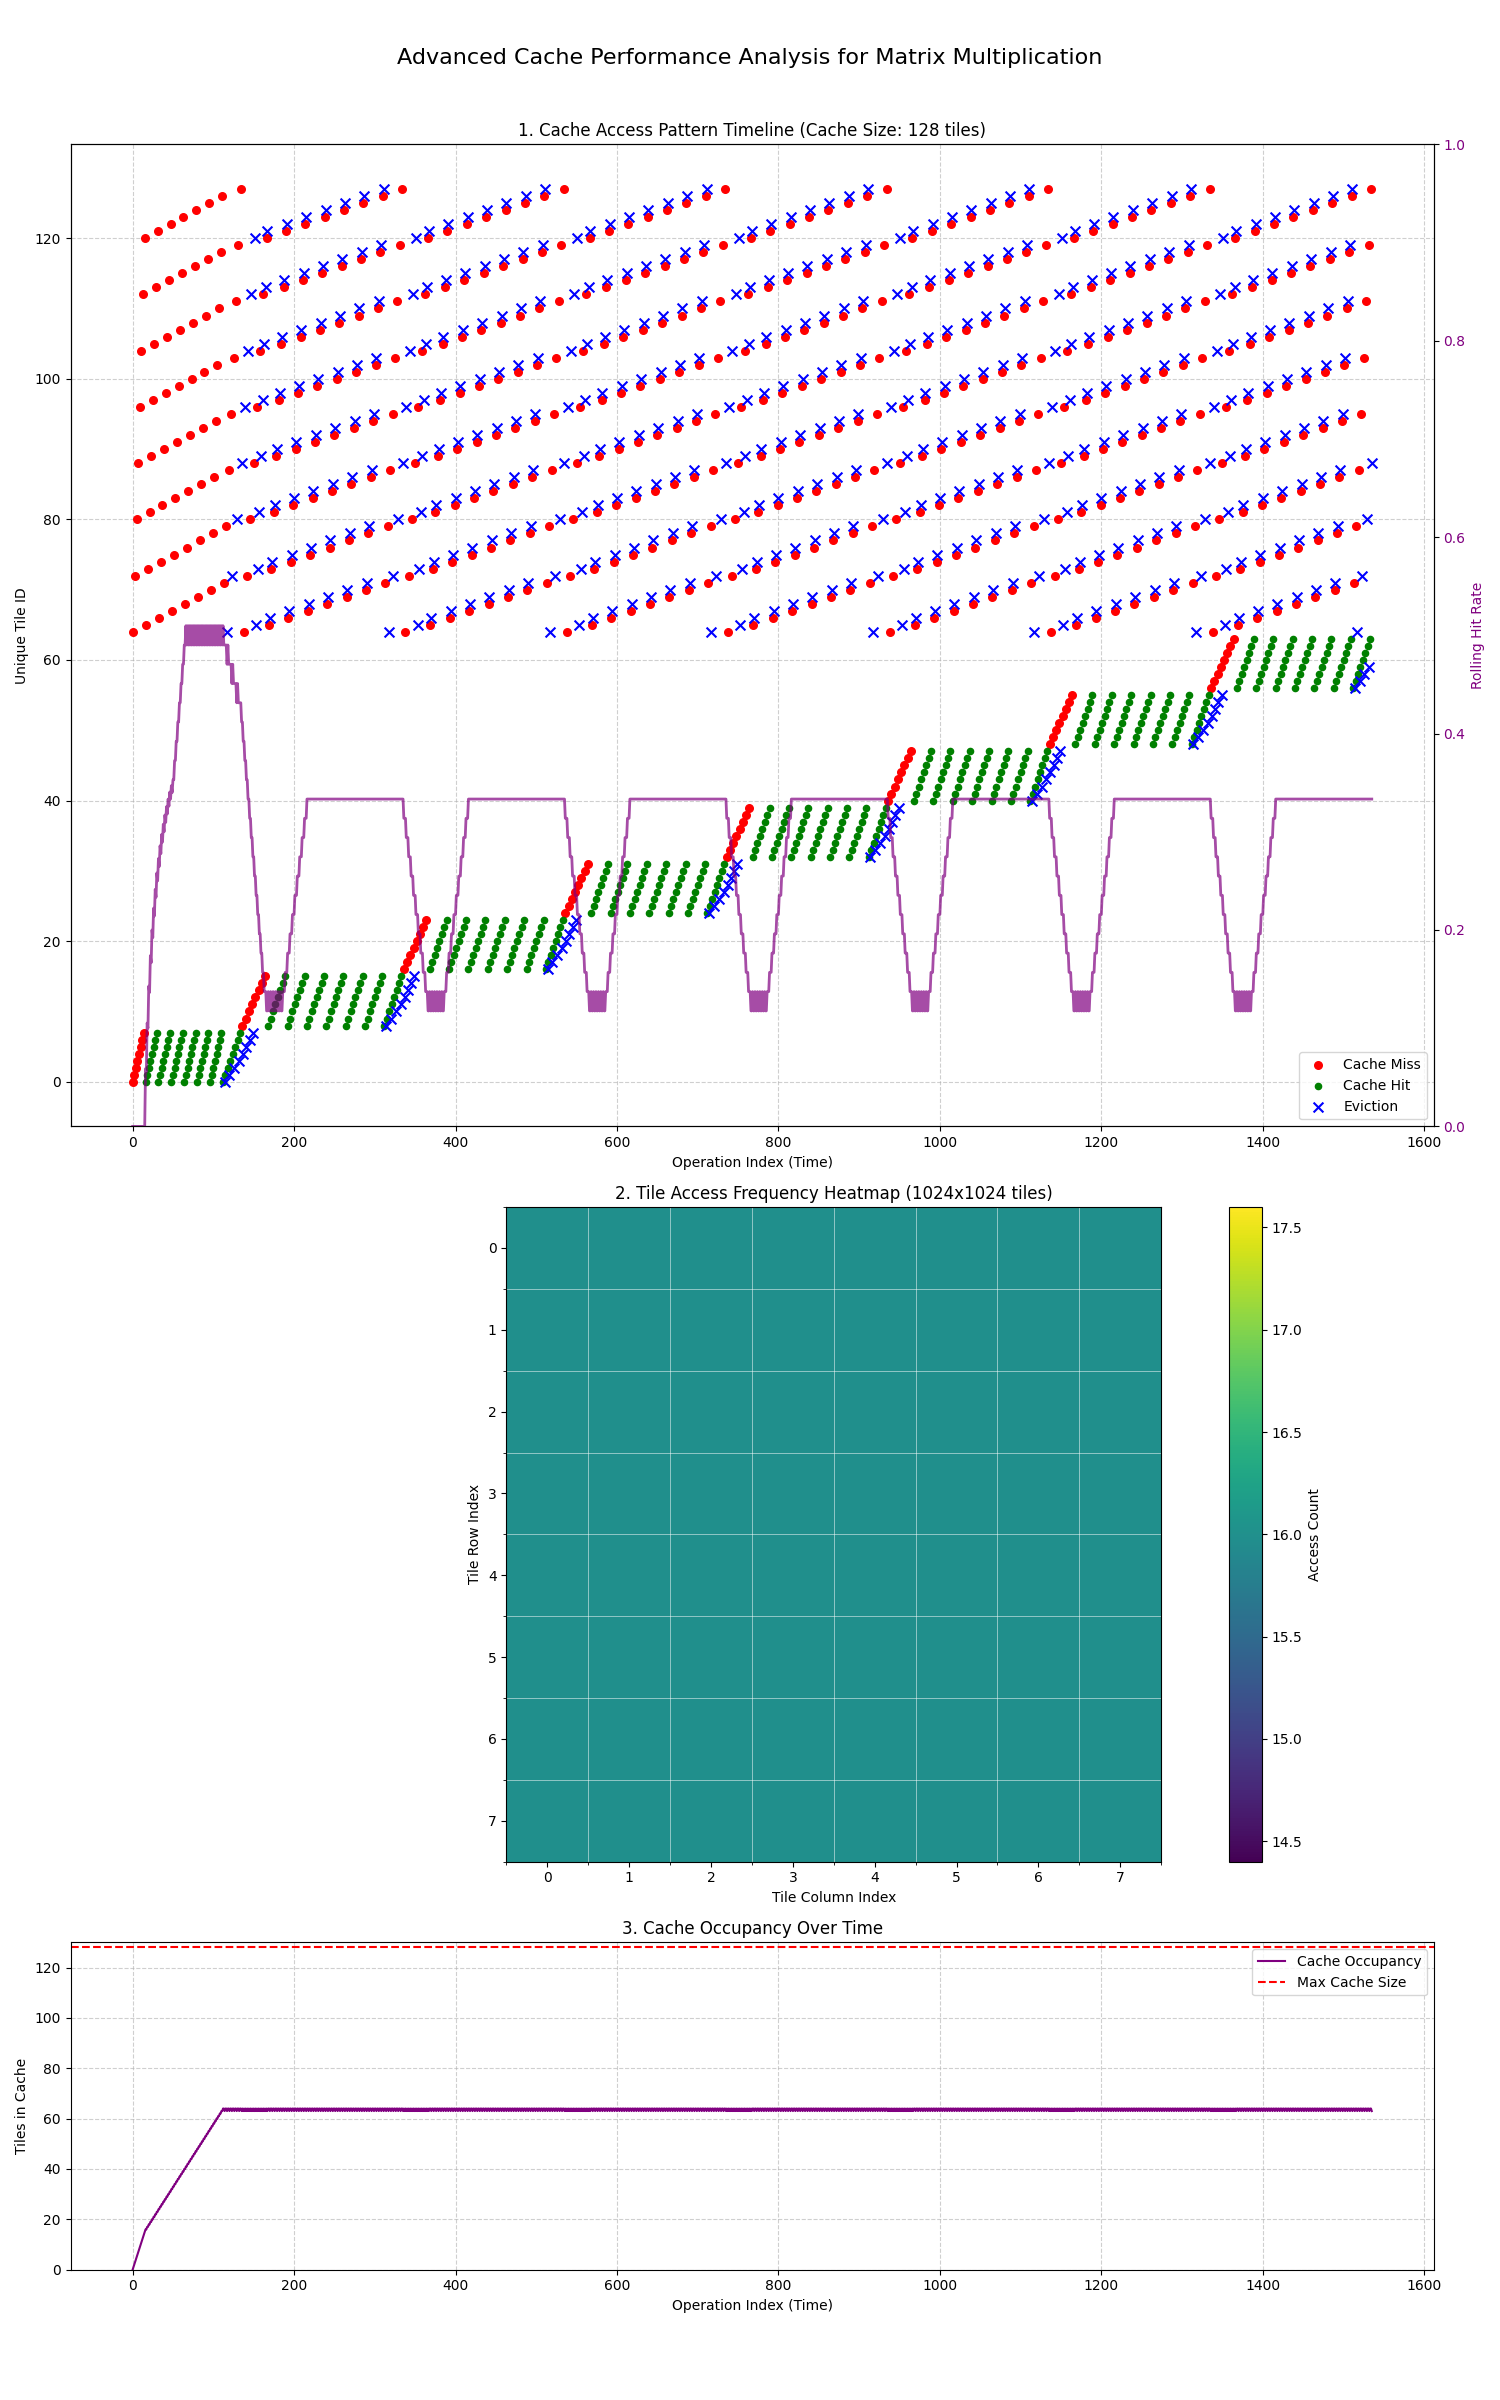
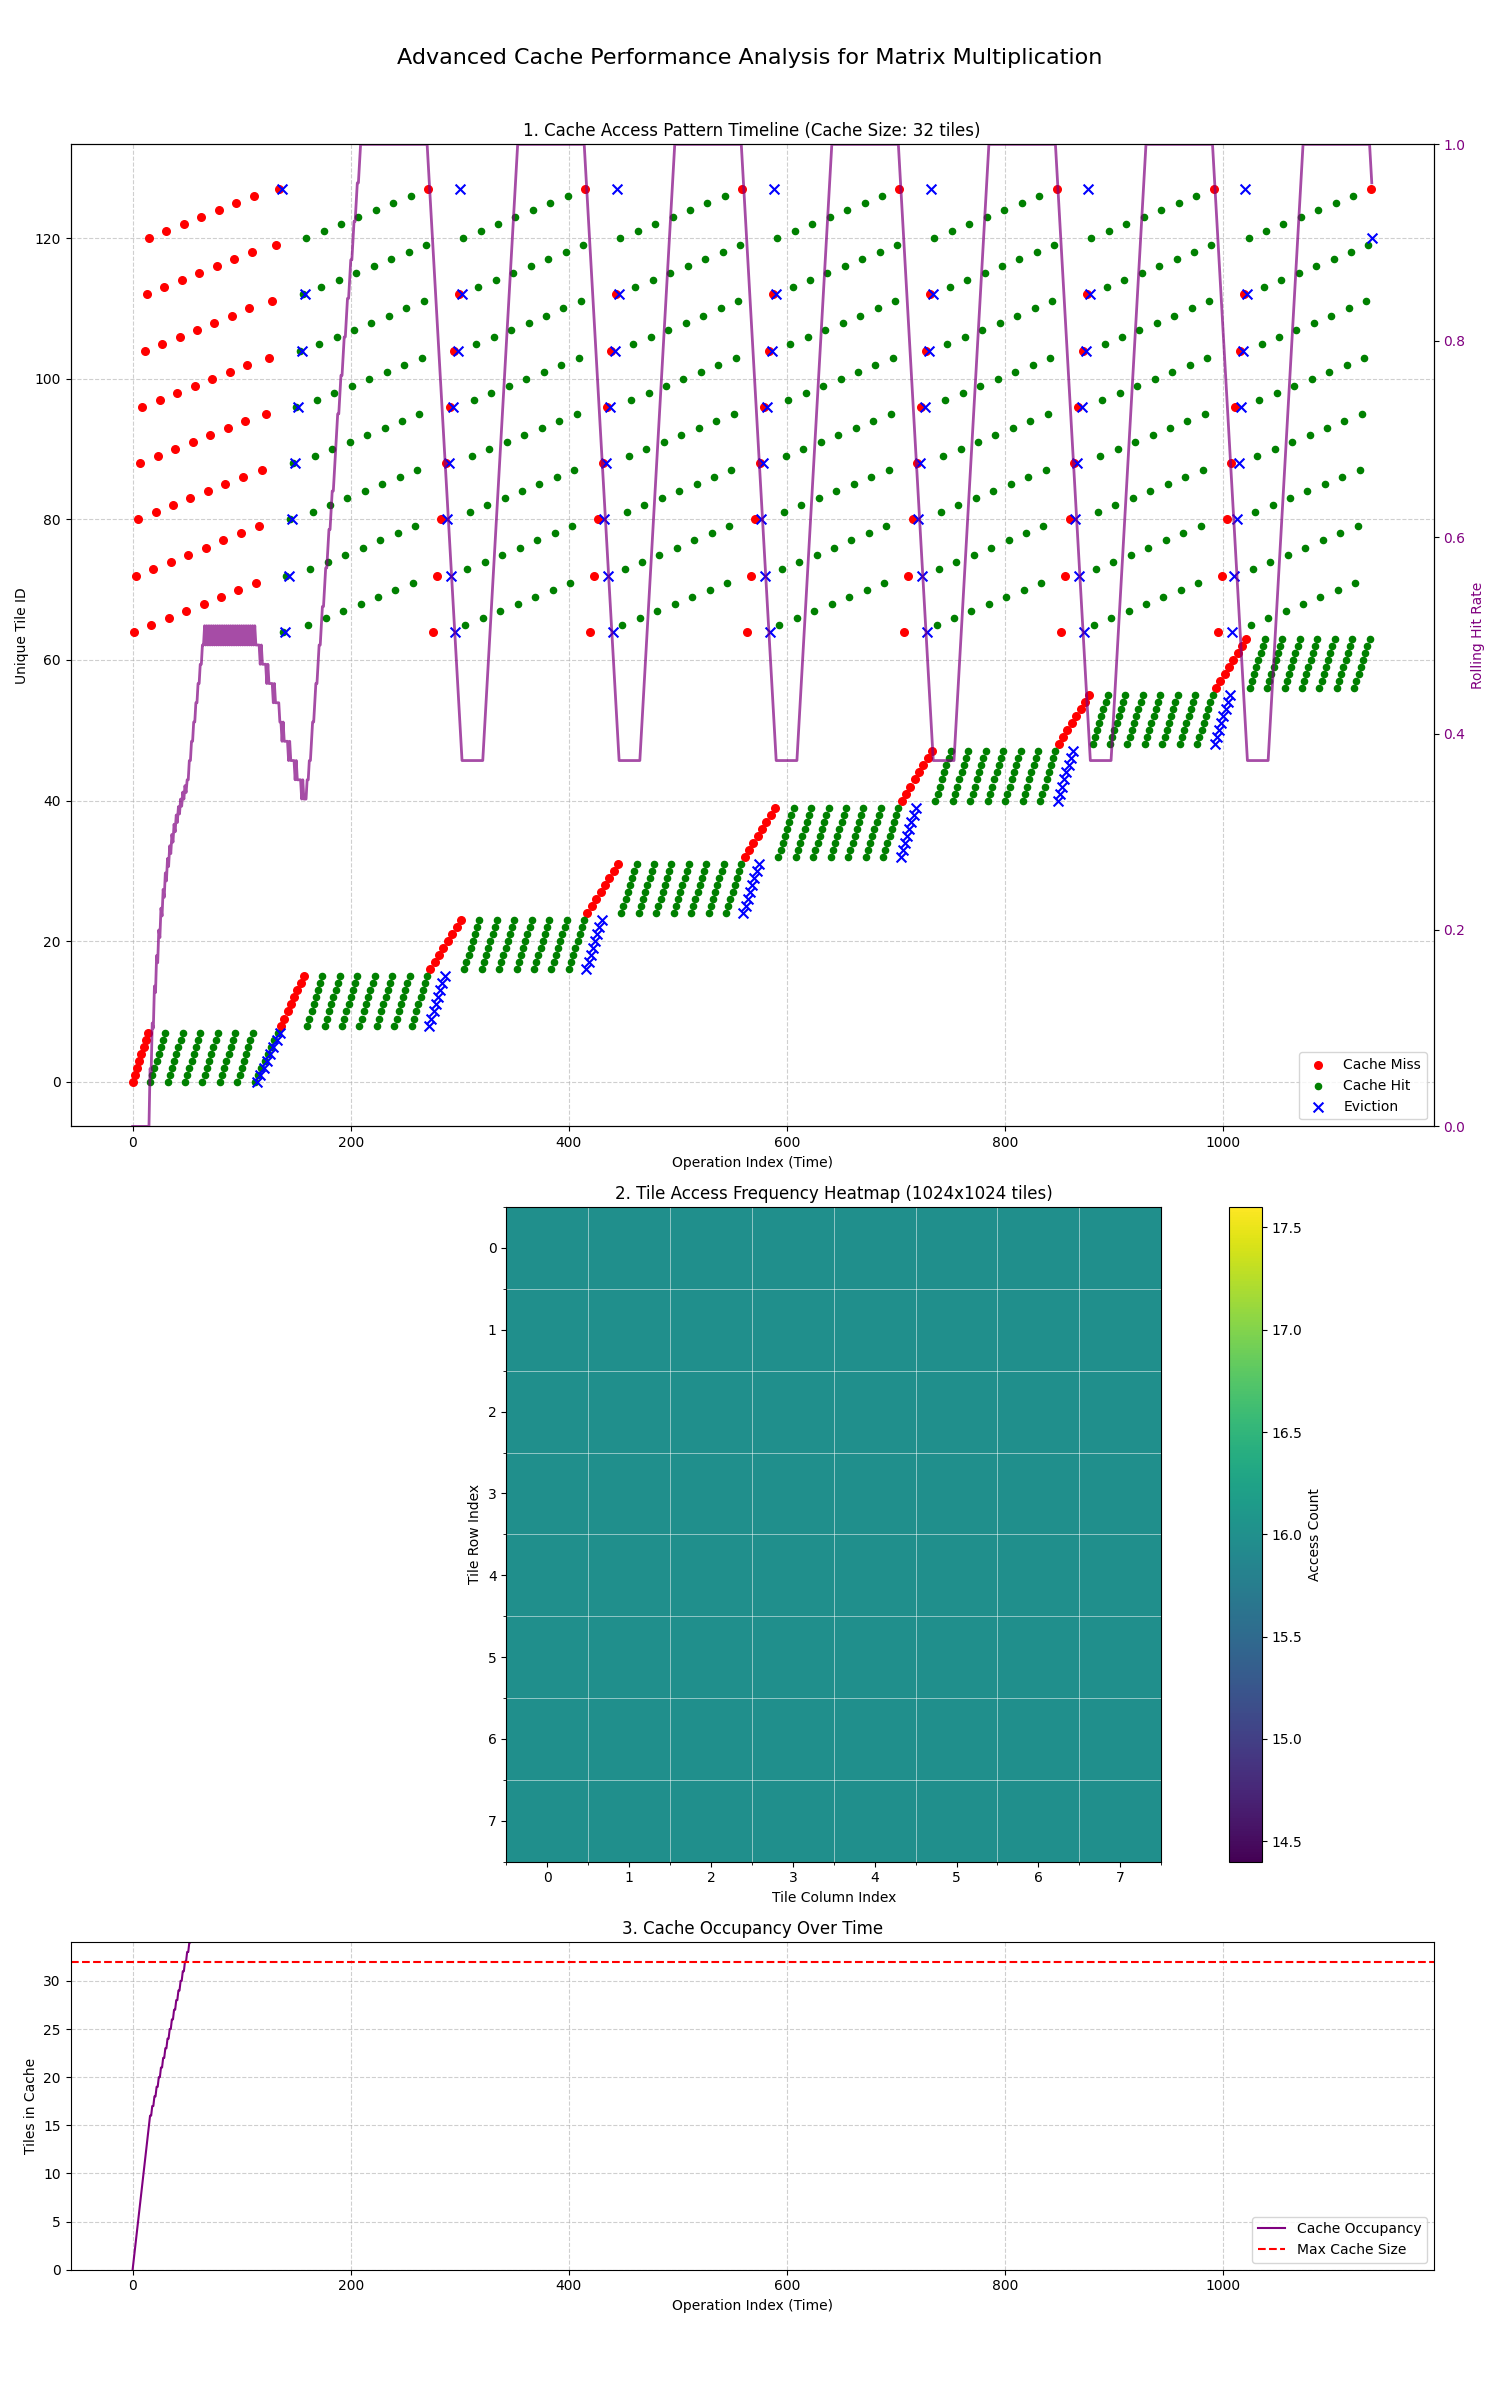
run all benchmarks

diff --git a/benchmarks/visualize_cache.py b/benchmarks/visualize_cache.py
@@ -21,14 +21,14 @@ VIS_DATA_DIR = "visualize_data"
 
 # Configuration presets for different analysis scenarios
 SCENARIOS = {
-    "fast_test": {"shape": (4096, 4096), "cache_size": 64},
+    "fast_test": {"shape": (4096, 4096), "cache_size": 32},
     "standard": {"shape": (8192, 8192), "cache_size": 128}, 
     "large_analysis": {"shape": (16384, 16384), "cache_size": 256},
     "eviction_stress": {"shape": (8192, 8192), "cache_size": 32}  # Force evictions
 }
 
 # Choose scenario
-SCENARIO = "eviction_stress"  # Change to "fast_test", "large_analysis", or "eviction_stress"
+SCENARIO = "fast_test"  # Change to "fast_test", "large_analysis", or "eviction_stress"
 config = SCENARIOS[SCENARIO]
 SHAPE = config["shape"]
 CACHE_SIZE_TILES = config["cache_size"]
